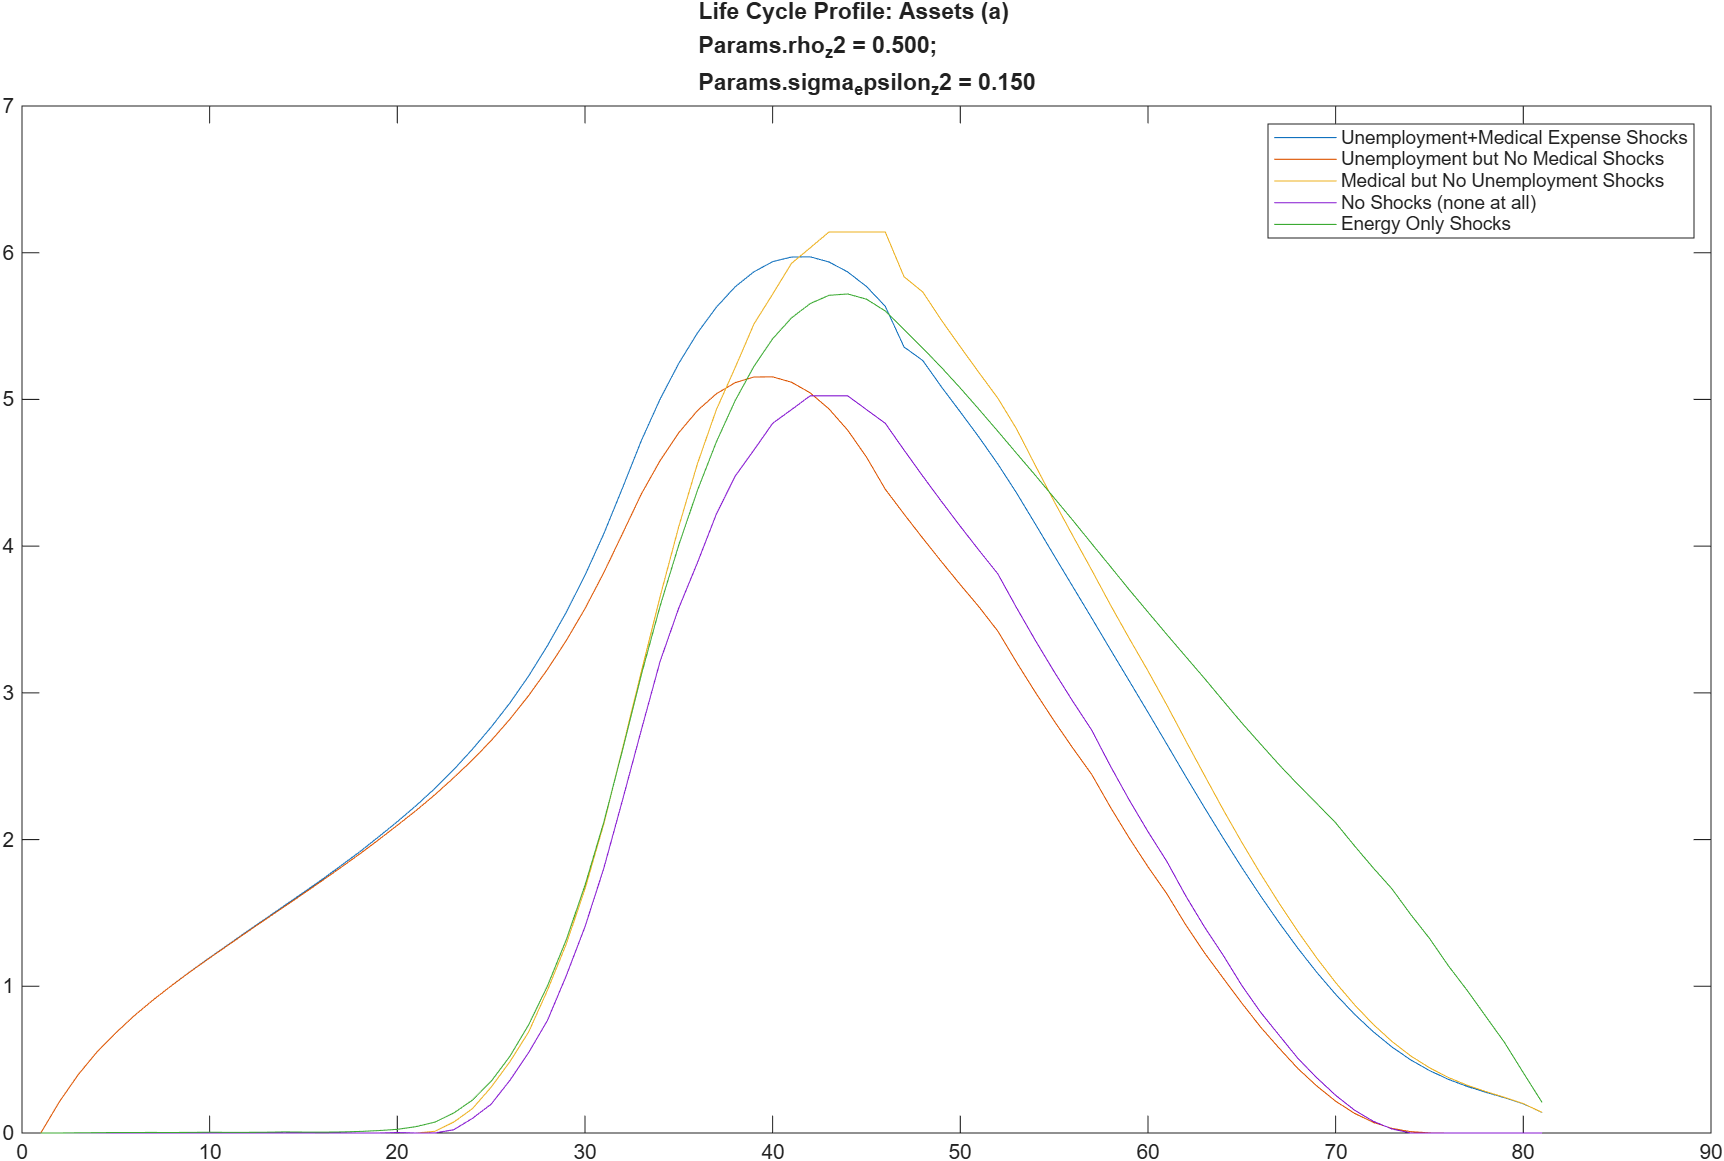
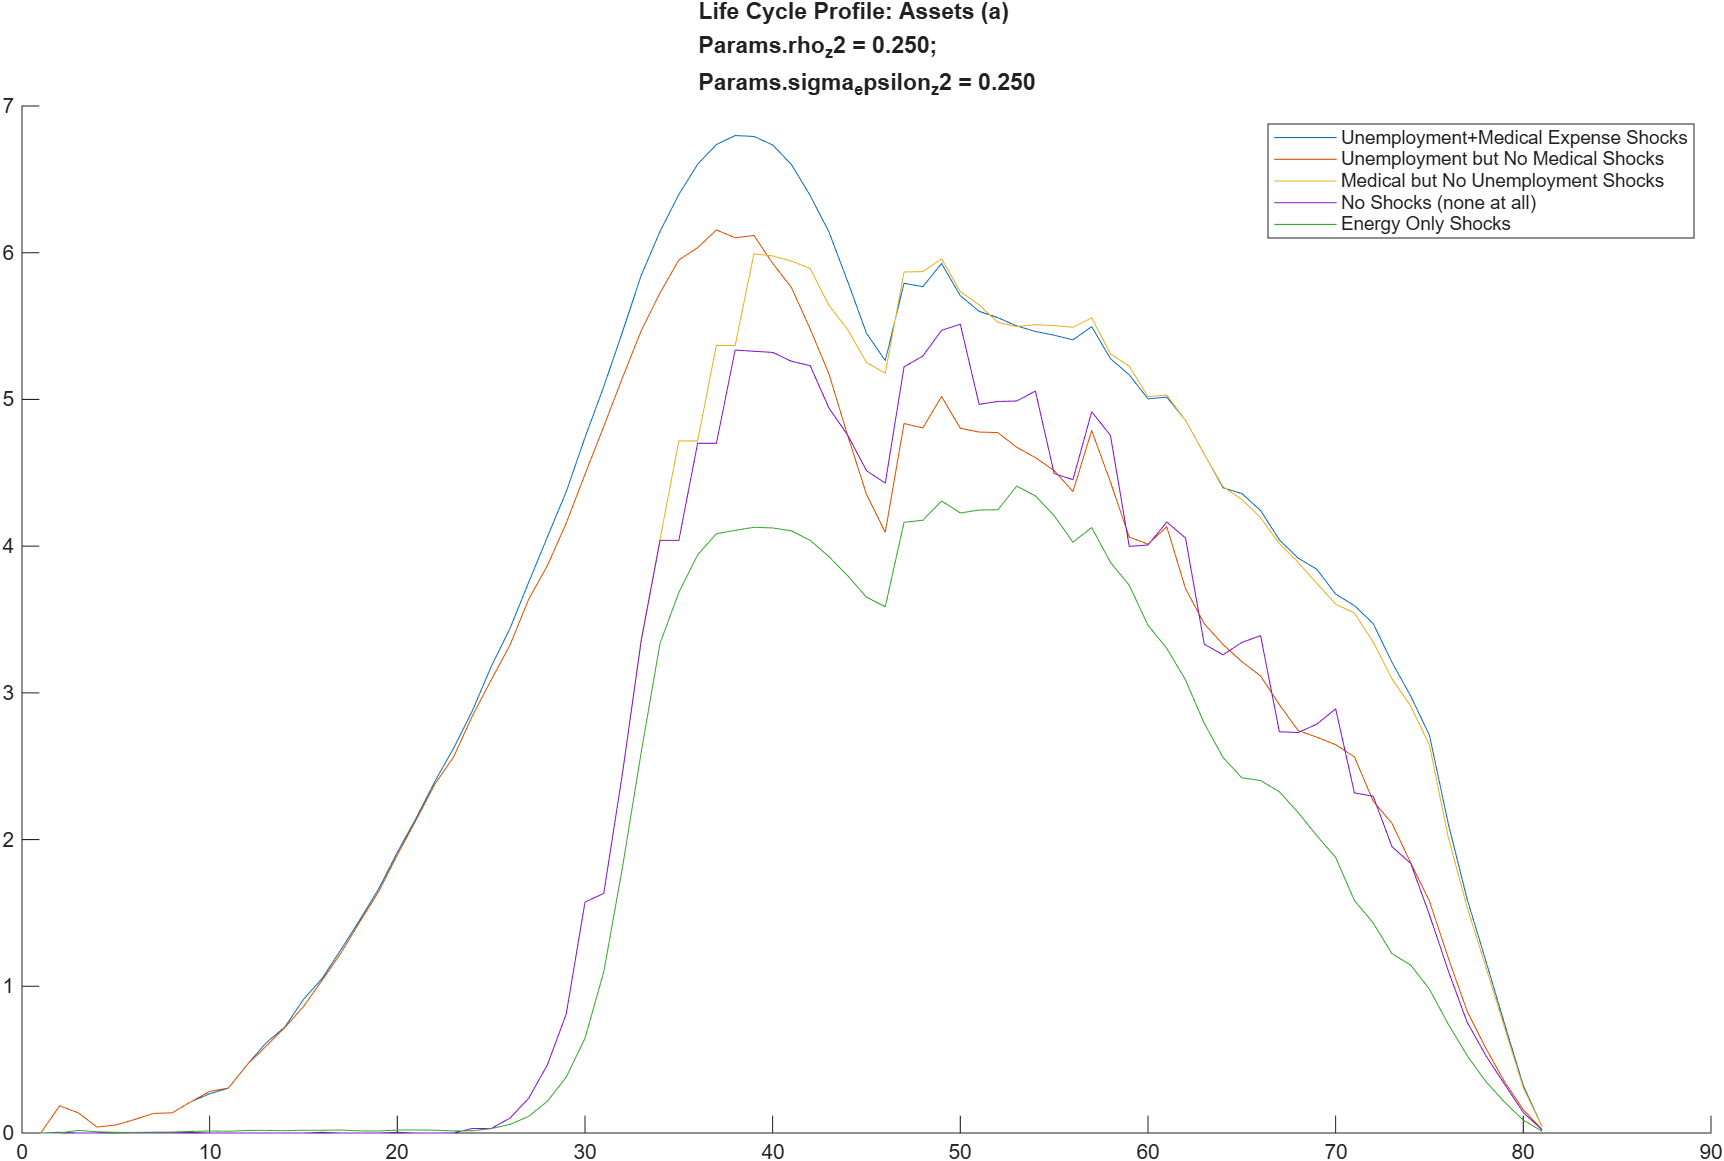
Fine-tuning (and making shocks more prominent)

diff --git a/QEA_2026.m b/QEA_2026.m
@@ -23,9 +23,9 @@ Params.agejshifter=19; % Age 20 minus one. Makes keeping track of actual age eas
 Params.J=100-Params.agejshifter; % =81, Number of period in life-cycle
 
 % Grid sizes to use
-n_d=[31,5]; % Endogenous labour choice (fraction of time worked); and kiwisaver redemption percentage
-n_a=[51,11,5]; % Endogenous asset holdings: assets, pv, kiwisaver
-n_z=[2,9]; % Exogenous labor productivity units shock; energy price shocks
+n_d=[23,7]; % Endogenous labour choice (fraction of time worked); and kiwisaver redemption percentage
+n_a=[27,11,7]; % Endogenous asset holdings: assets, pv, kiwisaver
+n_z=[2,7]; % Exogenous labor productivity units shock; energy price shocks
 N_j=Params.J; % Number of periods in finite horizon
 
 %% Parameters
@@ -44,7 +44,7 @@ Params.r=0.05; % Interest rate (0.05 is 5%)
 Params.energy_shock=0; % If 1, shock returns to mean; if > 1, shock increases price by (energy_shock-1)
 % Median Kiwi income is roughly $120K/hh, so $20K 5kW system with 10kWh battery is 1/6th income.
 % One fifth share of that (1kW+2kWh) is 1/30th income.
-Params.pv_share_price=1/30;
+Params.pv_share_price=1/20;
 
 % KiwiSaver Scheme
 Params.ks_r=0.07; % Long-term growth estimate
@@ -84,18 +84,18 @@ Params.wg3=Params.sigma; % By using the same curvature as the utility of consump
 %% Grids
 vfoptions.precision='single'; simoptions.precision=vfoptions.precision;
 cast2precision=str2func(vfoptions.precision);
-vfoptions.lowmemory=1;
+vfoptions.lowmemory=0;
 
 % The ^3 means that there are more points near 0 and near 16. We know from theory that the value function will be more 'curved' near zero assets,
 % and putting more points near curvature (where the derivative changes the most) increases accuracy of results.
 zero=cast2precision(0);
 a_grid_cubed=linspace(zero,1,floor(n_a(1)/4)+1).^3;
-a_grid_linear=linspace(cast2precision(1),10,ceil(3*n_a(1)/4));
+a_grid_linear=linspace(cast2precision(1),20,ceil(3*n_a(1)/4));
 asset_grid=[a_grid_cubed, a_grid_linear(2:end)]';
 
 pv_grid=[linspace(0,4,floor(n_a(2)/2)),linspace(5,15,floor(n_a(2)/2)+1)]';
 
-ks_grid=linspace(zero,20,n_a(3))';
+ks_grid=linspace(zero,40,n_a(3))';
 
 a_grid=[asset_grid; pv_grid; ks_grid];
 
@@ -126,8 +126,8 @@ vfoptions.ExogShockFn1=@(agej,Jr) LifeCycleModel21_ExogShockFn(agej,Jr);
 % Discretize the AR(1) process z2
 % Exogenous shock process, z2: AR1 on labor productivity units
 % Note this is not dependent on age
-Params.rho_z2=0.5;
-Params.sigma_epsilon_z2=0.15;
+Params.rho_z2=0.25; % 0.25 creates more tail-risk in pi_z vs 0.5
+Params.sigma_epsilon_z2=0.25; % 0.5 creates more extreme values in z_grid vs 0.25
 [z2_grid,pi_z2]=discretizeAR1_FarmerToda(0,Params.rho_z2,Params.sigma_epsilon_z2,n_z(2));
 z2_grid=exp(z2_grid); % Take exponential of the grid
 [mean_z2,~,~,~]=MarkovChainMoments(z2_grid,pi_z2); % Calculate the mean of the grid so as can normalise it
@@ -329,7 +329,7 @@ AgeConditionalStats_no_shocks.legend={'KiwiSaver Balance (ks)', ...
     'Assets (a)', ...
     'Location','northeast'};
 
-Params.energy_shock=1.5;
+Params.energy_shock=3;
 
 [V_energy_only, Policy_energy_only]=ValueFnIter_Case1_FHorz(n_d,n_a,n_z,N_j, d_grid, a_grid, z_gridvals_no_shocks_J, pi_z_no_shocks_J, ReturnFn, Params, DiscountFactorParamNames, [], vfoptions_no_shocks);
 

diff --git a/QEA_ReturnFn.m b/QEA_ReturnFn.m
@@ -35,10 +35,10 @@ employment_factor=(z1+single_1)/single(2); % full rate at full employment; half-
 nongrid_expenses=(housing+food+discretionary*employment_factor+taxes)*w_factor;
 grid_budget=(utilities+transport*employment_factor)*w_factor;
 % Calculate energy expense/income/investment
-grid_expenses=grid_budget*(energy_shock*(z2-single_1)+single(~energy_shock));
+grid_expenses=grid_budget*(energy_shock*z2+single(~energy_shock));
 if pv>5
     % grid_income is 1/2 the cost rate once above self-sufficient 5kW+10kWh system
-    grid_income=grid_budget*(max(single_1,energy_shock*(z2-single_1)))*(pv-single(5))/10;
+    grid_income=grid_budget*(max(single_1,energy_shock*z2))*(pv-single(5))/10;
     grid_expenses=single_0;
 else
     grid_income=single_0;